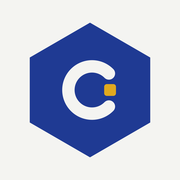
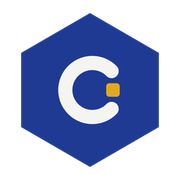
Add files via upload

Changed region(s): [[0.1111, 0.0556, 0.8889, 0.9444], [0.3056, 0.3056, 0.6667, 0.6944]]

diff --git a/sw.js b/sw.js
@@ -8,7 +8,7 @@
  * Ao publicar uma alteração aos ficheiros em site/, subir CACHE_VERSAO (ex.: v1 -> v2).
  * Sem isso, o browser pode continuar a servir a versão anterior da cache.
  */
-const CACHE_VERSAO = 'cte-inventario-v3';
+const CACHE_VERSAO = 'cte-inventario-v4';
 const CACHE = CACHE_VERSAO;
 const PRECACHE = [
   './',
@@ -20,7 +20,6 @@ const PRECACHE = [
   './icon-64.png',
   './icon-192.png',
   './icon-512.png',
-  './icon-512-maskable.png',
   './apple-touch-icon.png',
   './logo-cte.svg',
   './favicon.ico',

diff --git a/README.md b/README.md
@@ -13,8 +13,8 @@ Fala com o Apps Script por `POST` (`{ metodo, args }` → `{ ok, dados }`).
 | `config.js` | **o único sítio a editar**: o endereço da aplicação |
 | `manifest.webmanifest` | manifesto PWA (nome, ícones, cores) |
 | `sw.js` | service worker: guarda o “casco” da aplicação para abrir com Wi‑Fi fraco; não interceta o POST para o Apps Script |
-| `icon-64.png`, `icon-192.png`, `icon-512.png`, `icon-512-maskable.png` | ícones da PWA (instalação/atalho; o maskable tem mais margem) |
-| `apple-touch-icon.png` | ícone do atalho no iOS |
+| `icon-64.png`, `icon-192.png`, `icon-512.png` | ícones da PWA (instalação/atalho), com fundo transparente |
+| `apple-touch-icon.png` | ícone do atalho no iOS, com fundo transparente |
 | `logo-cte.svg` | versão vetorial do símbolo (hexágono C) |
 | `favicon.ico`, `favicon-32.png`, `favicon-16.png` | ícone da aba do browser (o 16 px é simplificado) |
 
@@ -27,7 +27,7 @@ Fala com o Apps Script por `POST` (`{ metodo, args }` → `{ ok, dados }`).
 4. *Settings → Pages → Deploy from a branch → main / (root) → Save*.
 5. Ao fim de ~1 minuto: `https://UTILIZADOR.github.io/inventario-cte/`
 6. **Ao alterar `app.js`, `index.html`, `qrlib.js` ou os ícones**, sobe `CACHE_VERSAO` no início de `sw.js`
-   (ex.: `cte-inventario-v3` → `cte-inventario-v4`). Sem isso, o browser pode continuar a servir
+   (ex.: `cte-inventario-v4` → `cte-inventario-v5`). Sem isso, o browser pode continuar a servir
    a versão anterior a partir da cache do service worker.
 7. Na folha de cálculo, em `Config`, coloca `appUrlBase` com esse endereço
    **com a barra final** (`https://UTILIZADOR.github.io/inventario-cte/`),
